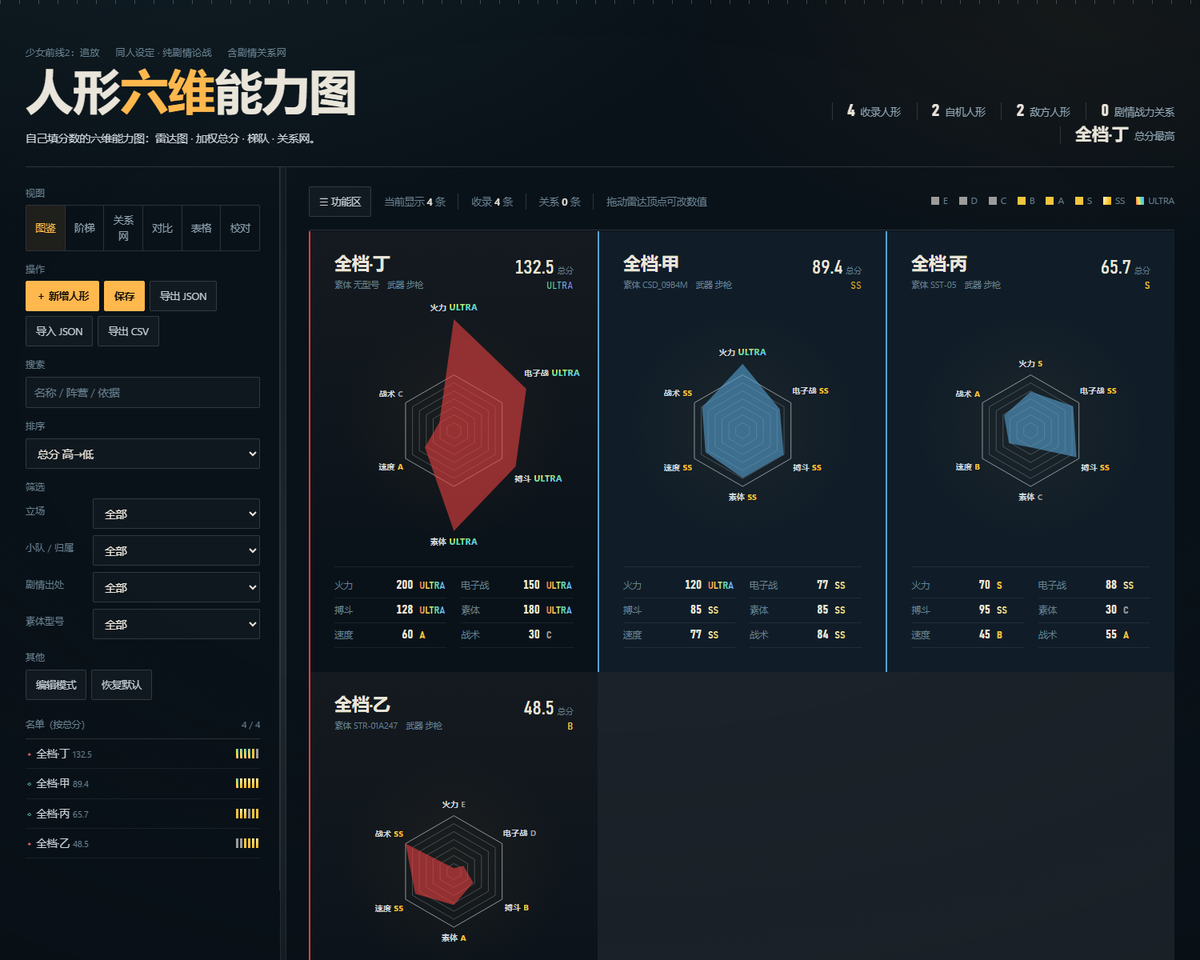
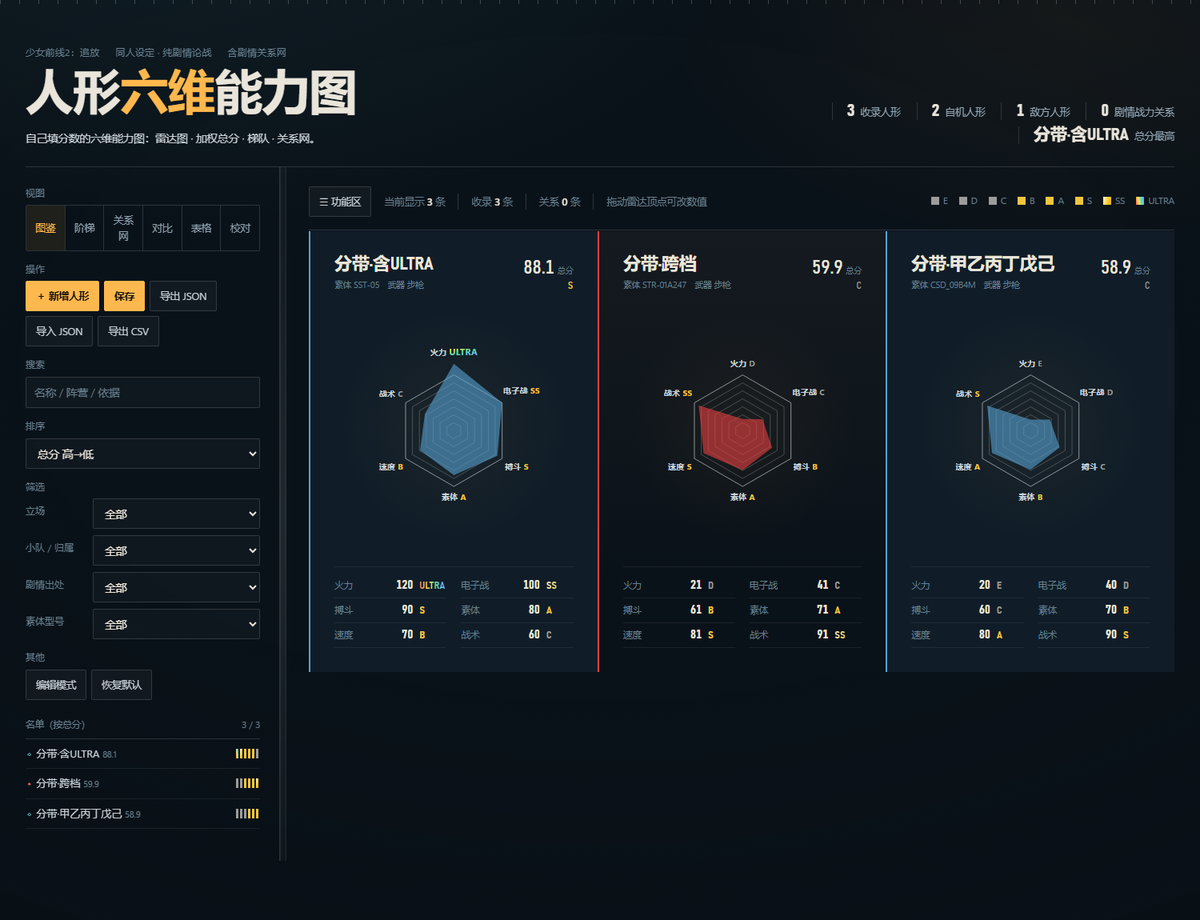
feat(scores): 档位改为非等距八档（E≤20 / D≤40 / C≤60 / B≤70 / A≤80 / S≤90 / SS≤100 / ULTRA>100）
- 旧的 12.5 等分（E<12.5…SS≤100）换成分带上界表 GBANDS=[20,40,60,70,80,90,100]，letterOf() 顺序判断
- 页面、排版调参器、_work/verify_scores.mjs 三处同步（校验项 07 文案改为「数值分带」）
- 刻度图例每个档位加 tooltip（如「S 81–90 分」）
- 边界实测：20=E / 20.1=D / 40=D / 40.1=C … 90=S / 90.1=SS / 100=SS / 100.1=ULTRA 全对
- 19 PASS / 0 FAIL；更新 README 预览图与进展摘要

diff --git a/少前2_人形六维能力图.html b/少前2_人形六维能力图.html
@@ -474,8 +474,14 @@ function clone(o){ return JSON.parse(JSON.stringify(o)); }
 function esc(s){ return String(s==null?'':s).replace(/&/g,'&amp;').replace(/</g,'&lt;').replace(/>/g,'&gt;').replace(/"/g,'&quot;'); }
 function f1(n){ return Math.round(n*100)/100; }
 function q(id){ return document.getElementById(id); }
-/* 字母档＝数值分带：E<12.5≤D<25≤C<37.5≤B<50≤A<62.5≤S<75≤SS≤100；数值 >100 即 ULTRA（顶点 200） */
-function letterOf(v){ return v > 100 ? 'ULTRA' : GRADES[Math.max(0, Math.min(6, Math.floor(v / 12.5)))]; }
+/* 字母档分带（作者 2026-10-10 定）：E 0–20 · D 21–40 · C 41–60 · B 61–70 · A 71–80 · S 81–90 · SS 91–100 · >100 ULTRA */
+var GBANDS = [20, 40, 60, 70, 80, 90, 100];
+var GBAND_LABEL = ['0–20','21–40','41–60','61–70','71–80','81–90','91–100','>100'];
+function letterOf(v){
+  if (v > 100) return 'ULTRA';
+  for (var i = 0; i < GBANDS.length; i++) if (v <= GBANDS[i]) return GRADES[i];
+  return 'SS';
+}
 /* 字母档＝【分数的 12.5 分带】（E→ULTRA）。同一个分数必然同一个档；
    素体的型号阶梯已重铺到跨满 E→SS，所以最弱的民用素体会落到 E。 */
 function computeDimLetters(){
@@ -771,7 +777,7 @@ function renderModels(){
   }).join('　');
 }
 function renderScale(){
-  q('scale').innerHTML = GRADES.map(function(g,i){ return '<span><i style="'+gradeBg(GRADES[i])+'"></i>'+g+'</span>'; }).join('');
+  q('scale').innerHTML = GRADES.map(function(g,i){ return '<span title="'+g+' '+GBAND_LABEL[i]+' 分"><i style="'+gradeBg(GRADES[i])+'"></i>'+g+'</span>'; }).join('');
 }
 
 /* ---------- 阶梯 ---------- */

diff --git a/六维图_排版调参器.html b/六维图_排版调参器.html
@@ -181,7 +181,12 @@ var GRADES = ['E','D','C','B','A','S','SS','ULTRA'];
 var GGRAD = { SS:['#fffbe0','#ffd23f','#f2a51a'], ULTRA:['#ff4d6d','#ffb84d','#ffe95c','#5fe0a0','#5fc7ff','#b06bff'] };
 var GGRAD_ANGLE = { SS:'105deg', ULTRA:'80deg' };
 function tierColor(i){ return get('theme.tier.'+i); }
-function letterOf(v){ return v > 100 ? 'ULTRA' : GRADES[Math.max(0,Math.min(6,Math.floor(v/12.5)))]; }
+var GBANDS = [20, 40, 60, 70, 80, 90, 100];
+function letterOf(v){
+  if (v > 100) return 'ULTRA';
+  for (var i = 0; i < GBANDS.length; i++) if (v <= GBANDS[i]) return GRADES[i];
+  return 'SS';
+}
 function gradeColor(g){ return tierColor(GRADES.indexOf(g)); }
 function gradeCss(g){ var c = gradeColor(g); return GGRAD[g]
   ? 'color:'+c+';background-image:linear-gradient('+(GGRAD_ANGLE[g]||'110deg')+','+GGRAD[g].join(',')+');-webkit-background-clip:text;background-clip:text;-webkit-text-fill-color:transparent'

diff --git a/_work/进展摘要.md b/_work/进展摘要.md
@@ -37,6 +37,10 @@
 
 > 它是「参数试验台」，正式几何仍以 `少前2_人形六维能力图.html` 的 `radar()` 为准；作者调完把 JSON 发回，由我落到页面。
 
+## 2.6 档位分带（2026-10-10 作者改定）
+
+非等距八档：**E 0–20 · D 21–40 · C 41–60 · B 61–70 · A 71–80 · S 81–90 · SS 91–100 · >100 ULTRA**。实现为 `GBANDS = [20,40,60,70,80,90,100]` 上界表 + `letterOf()` 顺序判断（页面／调参器／校验脚本三处同步）；刻度图例带区间 tooltip。
+
 ## 3. 关键约定（别踩）
 
 - **权重必须按 DIMS 索引取**：`WEIGHTS` 与 `DIMS` 必须同序（自检 14 盯着）。
